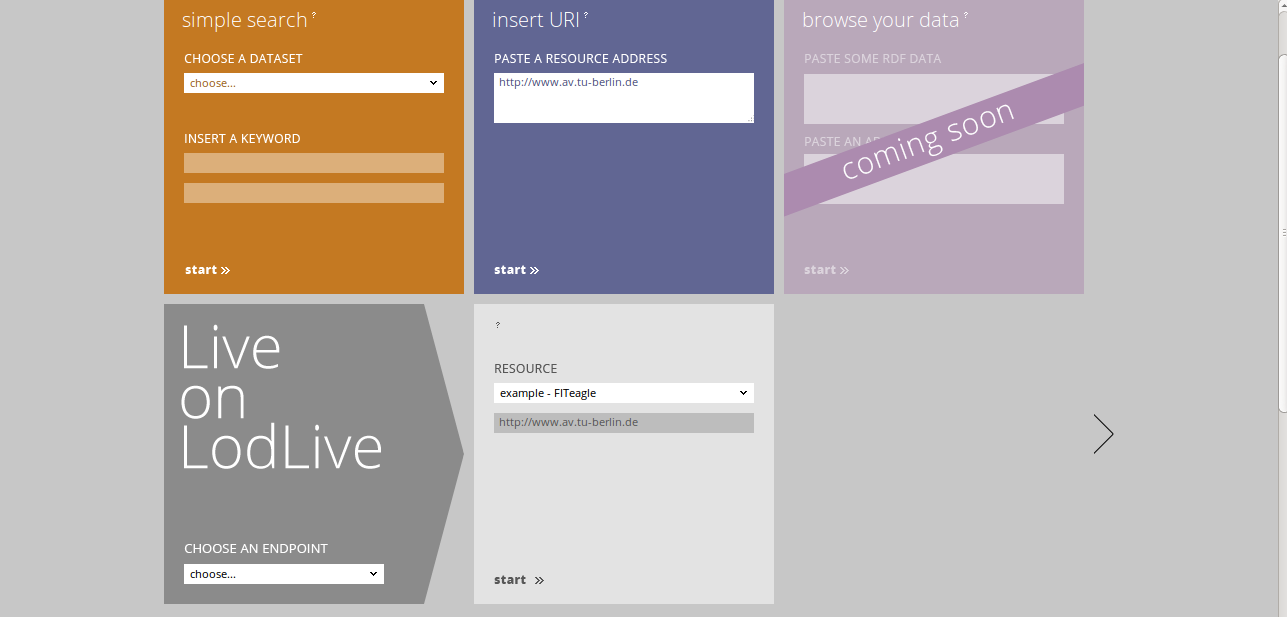
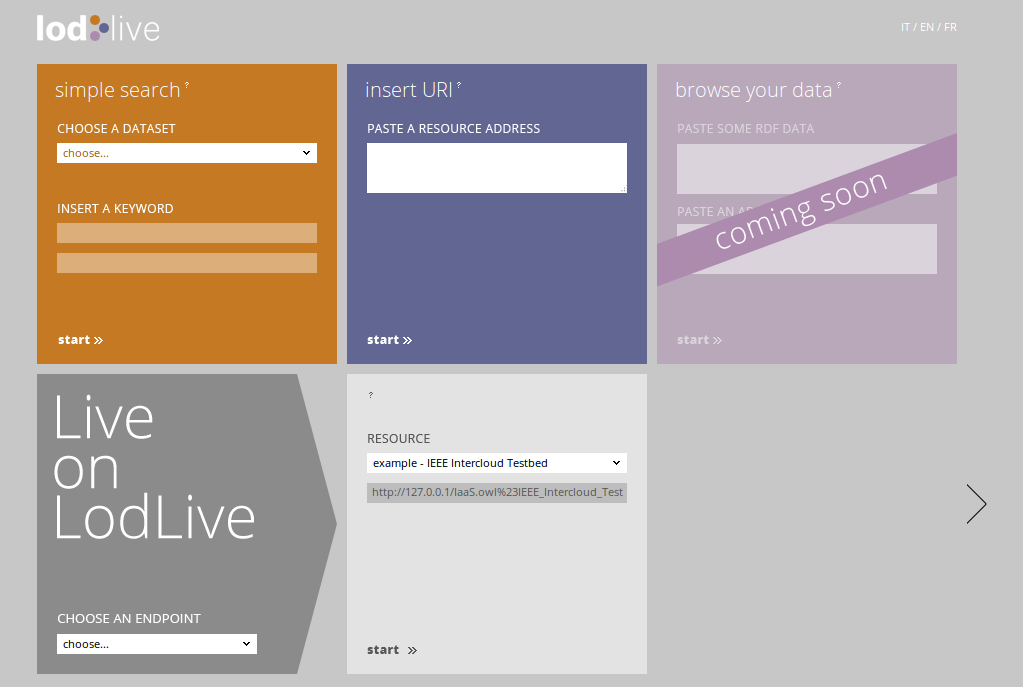
update README.md

diff --git a/README.md b/README.md
@@ -1,6 +1,7 @@
 # FITeagle Intercloud
 
 Intercloud project implementing simplified functionalities of IEEE P2303 Intercloud draft Standard
+This is the source code of all the components in the Intercloud project
 
 ## Prerequisite
 Deploy FITeagle platform according to https://github.com/FITeagle/bootstrap/README.md
@@ -39,8 +40,38 @@ and for gateway
 ```
 http://localhost:8080/gateway/ 
 ```
+##Take use of the deployed intercloud infrastructure
 
-For login in the gateway, you can use any username, if the username is used for the first time, an account will be created, if the username has already be registered, make sure your password is correct.
+There is already deployed infrastructure for one root and two gateways Alice and Bob.
+
+To visit the root, open web page
+
+```
+http://root-intercloud.av.tu-berlin.de/root/
+```
+
+To visit the gateway Alice and Bob
+
+```
+http://alice-gw-intercloud.av.tu-berlin.de/gateway/login.html
+```
+```
+http://bob-gw-intercloud.av.tu-berlin.de/gateway/login.html
+```
+
+For login in the gateway, use
+
+```
+username:alice
+password:alice
+```
+for gateway alice, and
+
+```
+username:bob
+password:bob
+```
+for gateway bob
 
 ![](https://raw.github.com/FITeagle/intercloud/master/image/login.png)
 
@@ -69,25 +100,23 @@ A same query function is also provided on the root side.
 But to query the resources, a web GUI LodLive is also available on the root side with the following link
 
 ```
-http://localhost:8080/root/LodLive/app_en.html
+http://root-intercloud.av.tu-berlin.de/root/gui/lodlive/
 ```
 
-You can use the resource URI to search the resource.
+Choose the example-IEEE Intercloud Testbed to provision the testbed
 
 ![](https://raw.github.com/FITeagle/intercloud/master/image/lodlive.png)
 
 And get the resource demonstrated after start
 
-![](https://raw.github.com/FITeagle/intercloud/master/image/lodlivefiteagle.png)
-
-The specific information about the resource can be found on the webpage as well as the geographical position of the resource shown on Google map.
-
 ![](https://raw.github.com/FITeagle/intercloud/master/image/lodlivemap.png)
+
+The specific information aout all the components and their geographical position can be checked through the GUI
 
 ##Check the XMPP clients status on XMPP server of OpenFire
 Go to web page
 ```
-http://localhost:9090/ 
+http://root-intercloud.av.tu-berlin.de:9090/login.jsp?url=%2Findex.jsp 
 ```
 Login with
 
